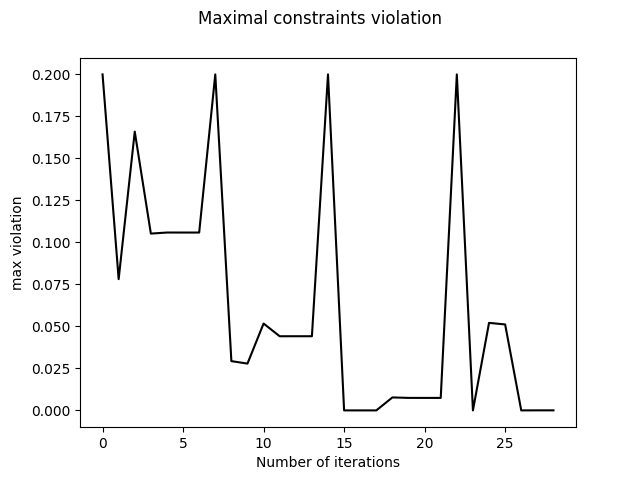
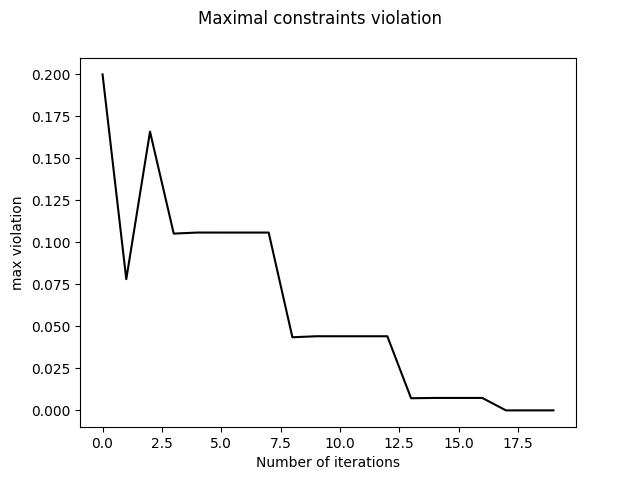
hw4 start from prev point

diff --git a/hw4/augmented_lagrangian_multipliers_algo.py b/hw4/augmented_lagrangian_multipliers_algo.py
@@ -64,8 +64,11 @@ class AugmentedLagrangianSolver:
 
         func_aggregate = Func(self.func, self.grad, self.hessian)
 
+        x_start = x_0
+
         # loop of the algo
         while self.p < self.p_max:
+
 
             # update penalty parameters (to every constraint penalty function)
             self.update_penalty_param()
@@ -76,7 +79,7 @@ class AugmentedLagrangianSolver:
 
             # run newton method on the new unconstrained problem and get optimal x
 
-            returned_hash = newton_method(x_0, unconstrained_optim_problem)
+            returned_hash = newton_method(x_start, unconstrained_optim_problem)
             x_trajectory.extend(returned_hash['x_list'])
             x_optimal = x_trajectory[-1]
 
@@ -91,6 +94,8 @@ class AugmentedLagrangianSolver:
 
             # increase p by alpha
             self.p *= self.alpha
+
+            x_start = x_optimal
 
         return {'x_list': x_trajectory, 'grad_list': aggregate_grads, 'mult_list': mult_trajectory}
 
